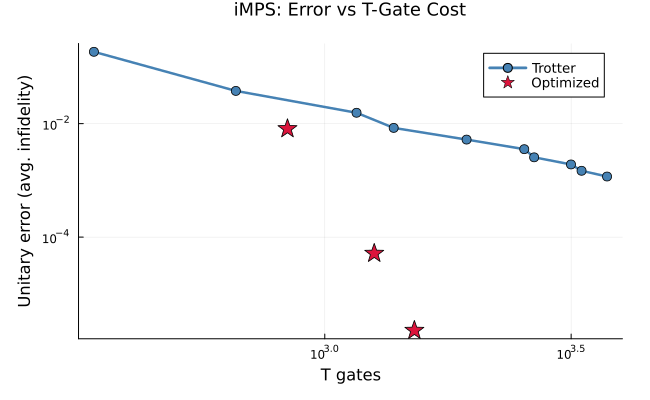
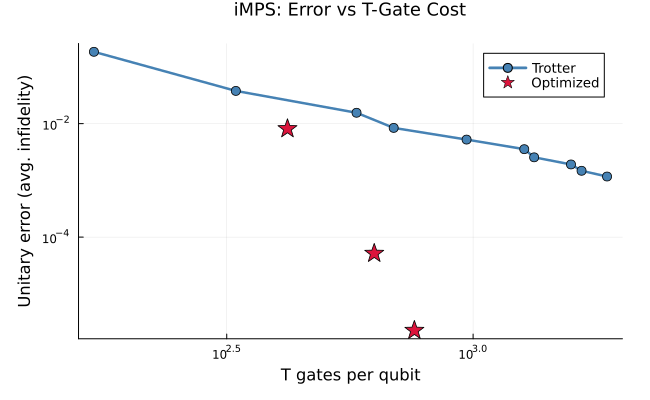
Normalize iMPS T-gate plot to T gates per qubit
Divide T-gate counts by unit_cell size for a size-independent
metric appropriate for translationally invariant circuits.

diff --git a/README.md b/README.md
@@ -34,7 +34,7 @@ graph TD
 <p align="center">
   <img src="assets/imps_error_vs_rzz.png" width="420" alt="iMPS error vs RZZ gates per bond"/>
   &nbsp;&nbsp;
-  <img src="assets/imps_error_vs_tgates.png" width="420" alt="iMPS error vs T-gate count"/>
+  <img src="assets/imps_error_vs_tgates.png" width="420" alt="iMPS error vs T gates per qubit"/>
 </p>
 
 <p align="center">
